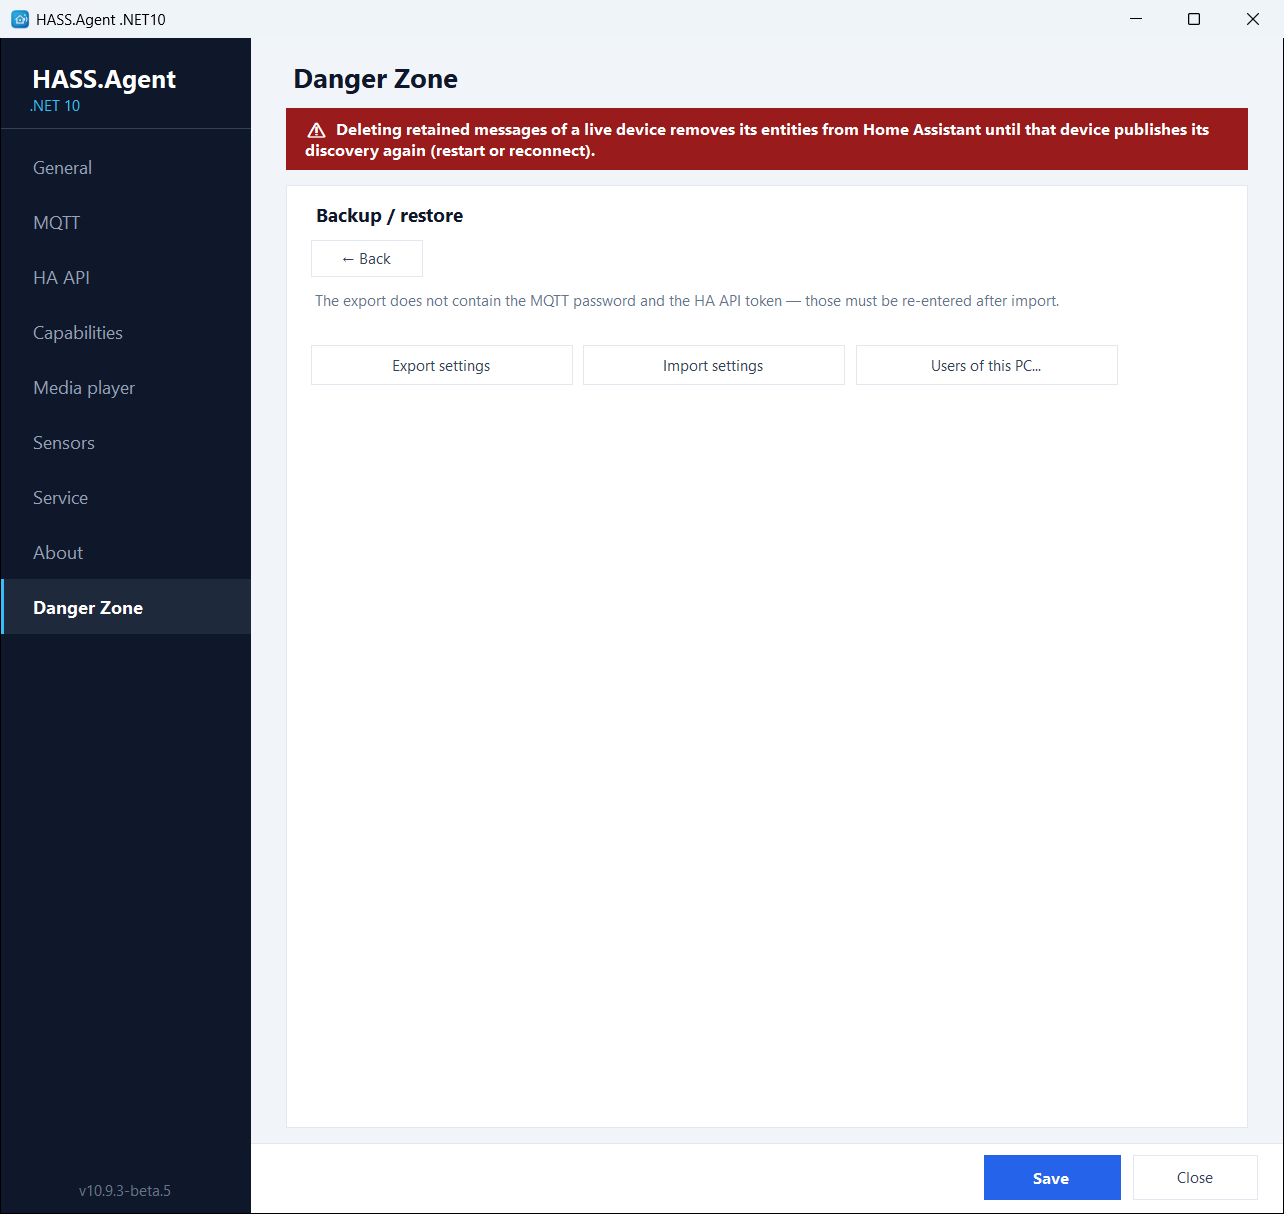
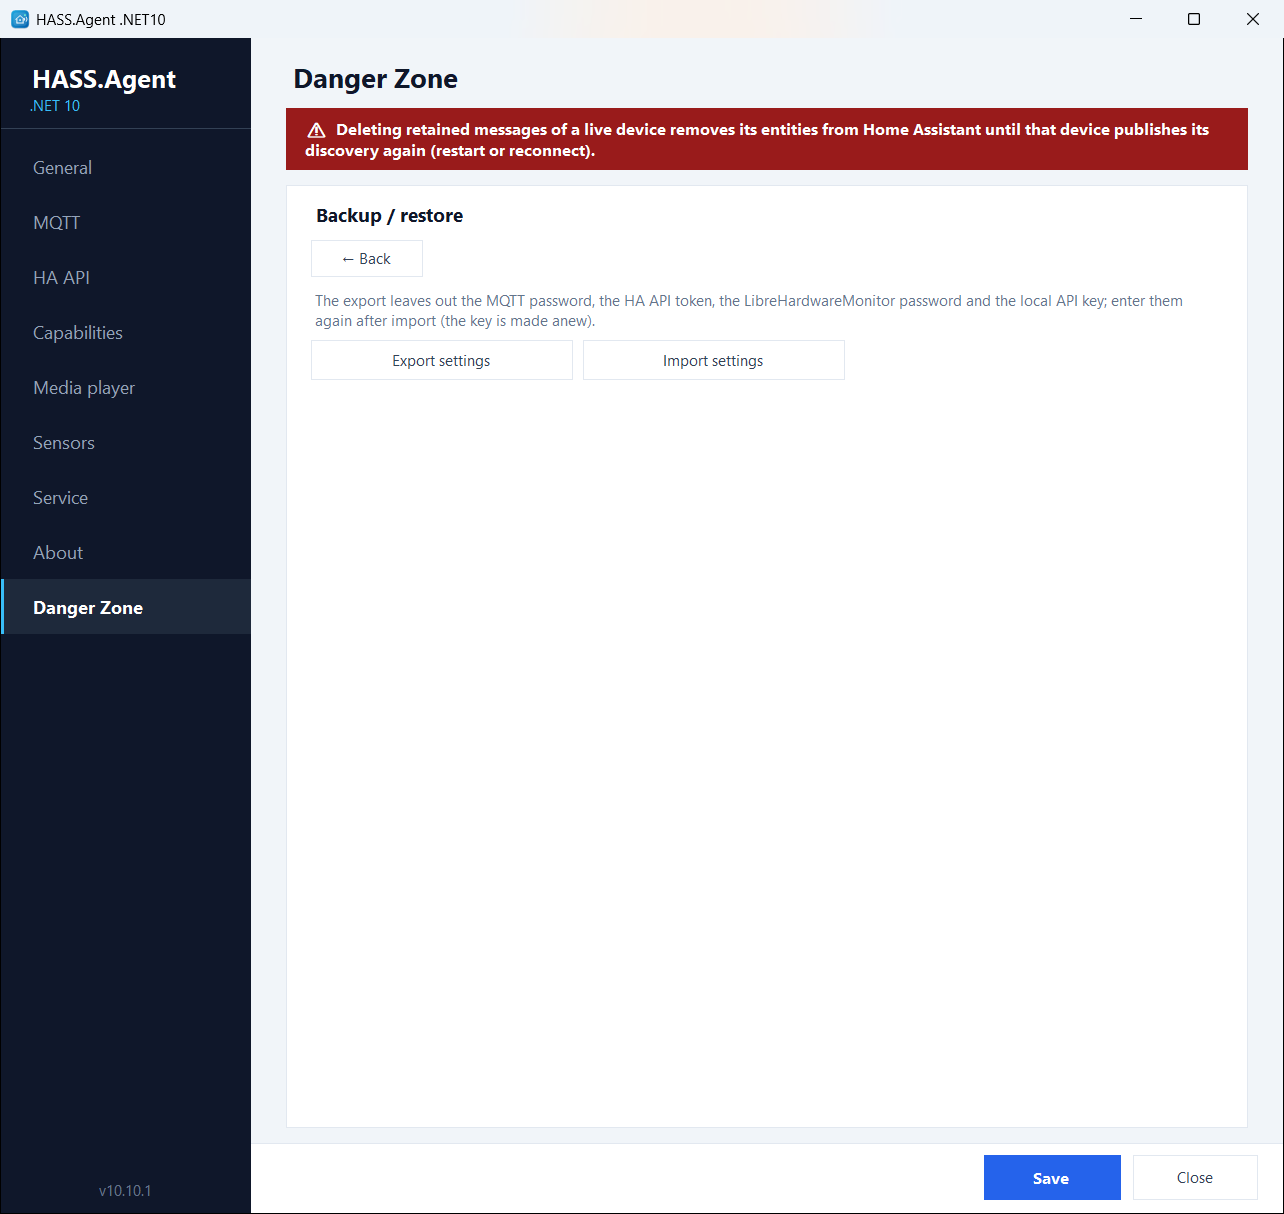
Docs: the Danger Zone screenshots show its current layout (#125)
The menu has the Users of this PC row, the Backup / restore view its two
buttons under a note that wraps. The second caption no longer mentions
the factory reset, which is not on that view.

Changed region(s): [[0.2492, 0.2438, 0.9034, 0.3048], [0.0623, 0.9753, 0.1246, 1.0]]

diff --git a/docs/features/danger-zone.md b/docs/features/danger-zone.md
@@ -44,5 +44,5 @@ Two switches live here as well:
 
 <figure class="shot" markdown>
 ![Backup and restore](../images/ui-dangerzone-backup-restore.png){ width="700" }
-<figcaption>Backup, restore and the factory reset</figcaption>
+<figcaption>Backup and restore: the export leaves the secrets out</figcaption>
 </figure>
